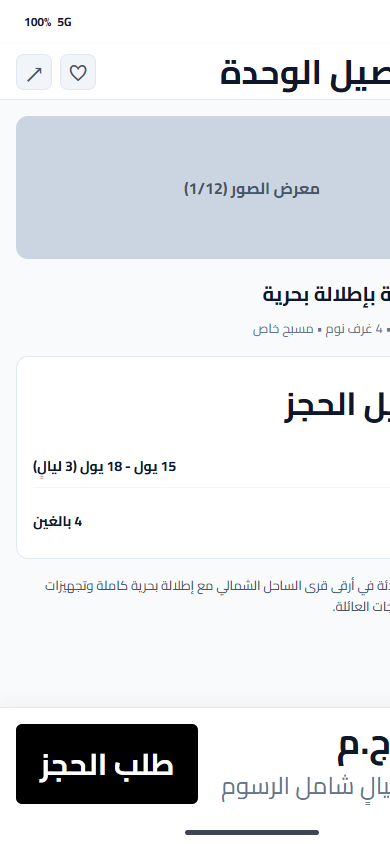
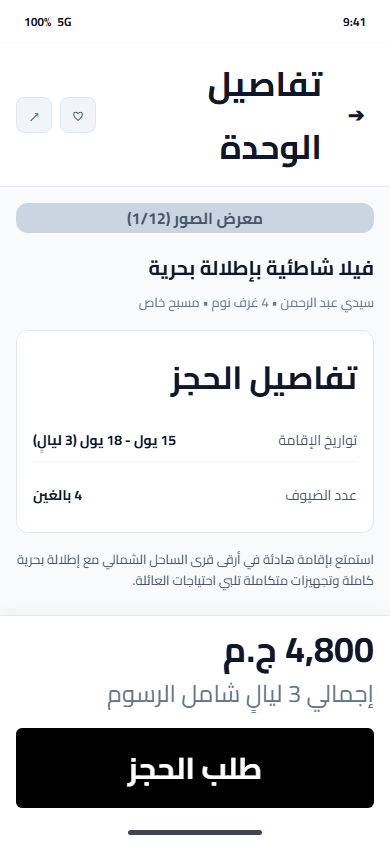
fix(design): repair Phase 4F publication evidence
Resolve three independently confirmed Codex/Bridge publication evidence findings:

- Finding A: Reconcile Screen 16 Notification Center as governed Account shell child exception (Master Rule MR-17), retaining visible 4-tab bottom navigation with Account tab active. Captured customer_notifications_390.png. Reconciled bottom nav rule across shared authority and pilot specifications.
- Finding B: Eliminate mobile visual evidence horizontal clipping by utilizing Chrome DevTools Protocol device metrics emulation and implementing responsive vertical reflow for 200% text scale in sticky decision bars and sheet footers. Re-captured all mobile artifacts with verified docScrollWidth <= clientWidth and zero child element overflow.
- Finding C: Capture Admin review queue at 1280px (admin_review_queue_1280.png) to satisfy UI QA Protocol dual desktop viewport requirement alongside 1440px.
- Updated EVIDENCE_MANIFEST.md to 29 verified image artifacts with exact blob SHAs and byte sizes.

diff --git a/DESIGN_SYSTEM/PILOTS/navigation-overlay-pilot-01/index.html b/DESIGN_SYSTEM/PILOTS/navigation-overlay-pilot-01/index.html
@@ -58,6 +58,44 @@
     /* Scaling support for true 200% text scale tests */
     body.scale-200 { --scale-factor: 2.0; }
 
+    body.scale-200 .sticky-action-surface {
+      flex-direction: column;
+      align-items: stretch;
+      gap: 12px;
+      height: auto;
+    }
+
+    body.scale-200 .sticky-action-surface .price-quote-block {
+      align-items: flex-start;
+    }
+
+    body.scale-200 .sticky-action-surface .btn-primary-action {
+      width: 100%;
+    }
+
+    body.scale-200 .sheet-footer {
+      flex-direction: column;
+      align-items: stretch;
+      gap: 10px;
+    }
+
+    body.scale-200 .sheet-footer button {
+      width: 100%;
+    }
+
+    body.scale-200 .app-bar {
+      min-height: var(--app-bar-height);
+      height: auto;
+      padding: 8px var(--mobile-page-inset);
+      flex-wrap: wrap;
+      gap: 8px;
+    }
+
+    body.scale-200 .app-bar .bar-title {
+      white-space: normal;
+      word-break: break-word;
+    }
+
     * {
       box-sizing: border-box;
       margin: 0;
@@ -295,7 +333,9 @@
       justify-content: center;
       cursor: pointer;
       color: var(--text-secondary);
-      font-size: calc(14px * var(--scale-factor));
+      font-size: 16px;
+      overflow: hidden;
+      flex-shrink: 0;
     }
 
     .app-bar .back-btn {
@@ -657,6 +697,7 @@
       <select id="sel-screen" onchange="updateView()">
         <optgroup label="العميل (Customer)">
           <option value="cust-explore">1. استكشف — المستوى الأعلى (Explore Top-Level)</option>
+          <option value="cust-notifications">1.1 مركز الإشعارات (Screen 16 — Account Shell Child Exception)</option>
           <option value="cust-detail">2. تفاصيل الوحدة — المتداخل (Property Detail Nested)</option>
           <option value="cust-sheet">3. ورقة تصفية البحث (Search Filter Bottom Sheet)</option>
           <option value="cust-auth">4. المصادقة الكاملة (Auth V2 Full-Screen Route)</option>
@@ -670,7 +711,7 @@
           <option value="owner-dialog">10. حوار رفض الطلب (Reject Consequence Dialog)</option>
         </optgroup>
         <optgroup label="لوحة الإدارة (Admin)">
-          <option value="admin-queue">11. مراجعة الوحدات المكتبية (Admin 1440 Desktop Boundary)</option>
+          <option value="admin-queue">11. مراجعة الوحدات المكتبية (Admin Desktop Boundary)</option>
         </optgroup>
       </select>
 
@@ -679,7 +720,8 @@
         <option value="390">390 × 844 (iPhone 14/15 Baseline)</option>
         <option value="360">360 × 800 (Android Compact)</option>
         <option value="430">430 × 932 (Pro Max Large)</option>
-        <option value="1440">1440 × 900 (Admin Desktop)</option>
+        <option value="1280">1280 × 900 (Admin Desktop 1280)</option>
+        <option value="1440">1440 × 900 (Admin Desktop 1440)</option>
       </select>
 
       <label class="control-label">حجم النص:</label>
@@ -771,8 +813,8 @@
 
       const frame = document.getElementById('viewport-frame');
       if (!state.embed) {
-        if (state.viewport === 1440) {
-          frame.style.width = '1000px';
+        if (state.viewport === 1440 || state.viewport === 1280) {
+          frame.style.width = (state.viewport === 1280 ? '900px' : '1000px');
           frame.style.height = '680px';
         } else {
           frame.style.width = state.viewport + 'px';
@@ -879,6 +921,55 @@
         `;
       }
 
+      // SCREEN 1.1: Customer Notification Center (Screen 16 — Account Shell Child Exception, Master Rule MR-17)
+      else if (state.screen === 'cust-notifications') {
+        html = `
+          ${statusBar}
+          <header class="app-bar">
+            <button class="back-btn" title="رجوع إلى الحساب">➔</button>
+            <span class="bar-title">مركز الإشعارات</span>
+            <div class="bar-actions">
+              <span style="font-size:12px; color:var(--text-muted); font-weight:600;">تحديد الكل كمقروء</span>
+            </div>
+          </header>
+          <div class="screen-content" style="padding-bottom: 24px;">
+            <div style="font-size:12px; color:var(--text-muted); font-weight:700; margin-bottom:4px;">اليوم</div>
+            <div class="card-container" style="padding:12px 16px; border-right: 3px solid var(--accent-blue);">
+              <div style="display:flex; justify-content:space-between; align-items:flex-start;">
+                <div>
+                  <h4 style="font-size:14px; font-weight:700; color:var(--text-main);">تمت الموافقة على طلب الحجز</h4>
+                  <p style="font-size:12px; color:var(--text-secondary); margin-top:2px;">وافق المالك على حجز فيلا الشاطئ (#1048). انتقل لدفع العربون لتأكيد الحجز.</p>
+                </div>
+                <span style="font-size:11px; color:var(--text-muted); white-space:nowrap;">منذ 10 د</span>
+              </div>
+            </div>
+
+            <div class="card-container" style="padding:12px 16px; border-right: 3px solid var(--border-subtle);">
+              <div style="display:flex; justify-content:space-between; align-items:flex-start;">
+                <div>
+                  <h4 style="font-size:14px; font-weight:700; color:var(--text-main);">تأكيد استلام الطلب</h4>
+                  <p style="font-size:12px; color:var(--text-secondary); margin-top:2px;">تم إرسال طلب حجز فيلا الشاطئ إلى المالك للمراجعة.</p>
+                </div>
+                <span style="font-size:11px; color:var(--text-muted); white-space:nowrap;">منذ ساعتين</span>
+              </div>
+            </div>
+
+            <div style="font-size:12px; color:var(--text-muted); font-weight:700; margin-top:8px; margin-bottom:4px;">سابقًا</div>
+            <div class="card-container" style="padding:12px 16px; border-right: 3px solid var(--border-subtle);">
+              <div style="display:flex; justify-content:space-between; align-items:flex-start;">
+                <div>
+                  <h4 style="font-size:14px; font-weight:700; color:var(--text-main);">مرحبًا بك في كونفرم</h4>
+                  <p style="font-size:12px; color:var(--text-secondary); margin-top:2px;">ابدأ باستكشاف وحدات الساحل الشمالي المعتمدة بأمان وموثوقية.</p>
+                </div>
+                <span style="font-size:11px; color:var(--text-muted); white-space:nowrap;">أمس</span>
+              </div>
+            </div>
+          </div>
+          ${customerBottomNav('ACCOUNT')}
+          ${homeIndicator}
+        `;
+      }
+
       // SCREEN 2: Customer Property Detail (Nested)
       else if (state.screen === 'cust-detail') {
         const showDualChrome = (state.candidate === 'A'); // Candidate A defect demonstration
@@ -952,7 +1043,7 @@
               <div class="sheet-body">
                 <div>
                   <label style="font-size:13px; font-weight:700; color:var(--text-main); display:block; margin-bottom:8px;">المنطقة في الساحل</label>
-                  <div style="display:flex; gap:8px;">
+                  <div style="display:flex; gap:8px; flex-wrap:wrap;">
                     <span style="padding:6px 12px; background:var(--accent-blue-soft); color:var(--accent-blue); border-radius:6px; font-size:12px; font-weight:700;">الكل</span>
                     <span style="padding:6px 12px; background:var(--bg-surface-subtle); border-radius:6px; font-size:12px;">سيدي عبد الرحمن</span>
                     <span style="padding:6px 12px; background:var(--bg-surface-subtle); border-radius:6px; font-size:12px;">رأس الحكمة</span>
@@ -970,7 +1061,7 @@
                 </div>
                 <div>
                   <label style="font-size:13px; font-weight:700; color:var(--text-main); display:block; margin-bottom:8px;">عدد الغرف</label>
-                  <div style="display:flex; gap:8px;">
+                  <div style="display:flex; gap:8px; flex-wrap:wrap;">
                     <span style="padding:6px 14px; border:1px solid var(--border-subtle); border-radius:6px; font-size:13px;">1</span>
                     <span style="padding:6px 14px; border:1px solid var(--border-subtle); border-radius:6px; font-size:13px;">2</span>
                     <span style="padding:6px 14px; background:var(--primary-black); color:#FFFFFF; border-radius:6px; font-size:13px; font-weight:700;">3+</span>

diff --git a/DESIGN_SYSTEM/PILOTS/navigation-overlay-pilot-01/EVIDENCE_MANIFEST.md b/DESIGN_SYSTEM/PILOTS/navigation-overlay-pilot-01/EVIDENCE_MANIFEST.md
@@ -2,9 +2,9 @@
 
 **Pilot Directory:** `DESIGN_SYSTEM/PILOTS/navigation-overlay-pilot-01/`
 **Evidence Subdirectory:** `evidence/`
-**Generation Engine:** Google Chrome Headless (`chrome.exe --headless=new --hide-scrollbars`)
+**Generation Engine:** Google Chrome Headless via CDP (`chrome.exe --headless=new --hide-scrollbars`)
 **Base Commit SHA:** `ff4ac0b4322b8a7c50273dd7a459a93dcf090551`
-**Artifact Total:** 27 rendered image artifacts
+**Artifact Total:** 29 rendered image artifacts
 **Data Status:** `LAB_SCENARIO_DATA`
 *(All names, booking IDs, property records, and metrics are synthetic lab scenario data for visual, layout, and presentation testing only — `LAB_SCENARIO_DATA ≠ production evidence`).*
 
@@ -14,49 +14,61 @@
 
 | # | Artifact Filename | Dimensions (W×H) | Size (Bytes) | Git Blob SHA | Role / Screen Family | Key Inspected Feature / Verification Criteria | Outcome |
 |---|---|---|---|---|---|---|---|
-| 1 | `customer_explore_360.png` | 360 × 800 | 14,377 | `f90e8bb8d671becfdb01b97942c3c68b3903b5c4` | Customer Top-Level | 4-tab bottom nav, Explore header (brand + account affordance, no Bell), 360px compact reflow | **PASS** |
-| 2 | `customer_explore_390.png` | 390 × 844 | 15,520 | `823b900c15e5ae2d59eb117123768264493e3bee` | Customer Top-Level | 4-tab bottom nav, Explore header, baseline iPhone 390px viewport, active tab styling | **PASS** |
-| 3 | `customer_explore_430.png` | 430 × 932 | 17,581 | `38ab0c370efd3d0d633dcd9f489279bde1949ac7` | Customer Top-Level | 4-tab bottom nav, large 430px viewport, edge alignment, safe margins | **PASS** |
-| 4 | `customer_detail_390.png` | 390 × 844 | 20,400 | `1a154a528be6738a5a2a6e8782bdcbaefe65ad10` | Customer Nested Entity | Nested Property Detail: RTL Back button, hero image, sticky CTA bar, bottom nav hidden | **PASS** |
-| 5 | `candidate_a_customer_detail_390.png` | 390 × 844 | 22,737 | `0d869a16043aac99cc26e4c97b5cd438d2761922` | Customer Nested (Candidate A) | **DUAL BOTTOM CHROME DEFECT**: Competing persistent bottom action regions (sticky CTA stacked on bottom nav) | **FAIL (Defect)** |
-| 6 | `candidate_c_customer_detail_390.png` | 390 × 844 | 20,400 | `1a154a528be6738a5a2a6e8782bdcbaefe65ad10` | Customer Nested (Candidate C) | **ROLE-AWARE CONTEXTUAL**: Clean single bottom chrome (sticky CTA replaces bottom nav with RTL Back) | **PASS** |
-| 7 | `customer_sheet_390.png` | 390 × 844 | 15,739 | `b9cb4aa366b02feba816160ee79acaa5b6c2b4a5` | Contextual Bottom Sheet | Search refine filter sheet, optional drag handle, 16px top radius, explicit Close (X), dimmed scrim | **PASS** |
-| 8 | `customer_sheet_keyboard_390.png` | 390 × 844 | 19,727 | `092c833eb4d0e932fa7e2d1adcc2ab2a3a1383c0` | Contextual Bottom Sheet | On-screen keyboard active (280px mock), sheet adapts, sticky apply CTA remains visible | **PASS** |
-| 9 | `customer_auth_v2_390.png` | 390 × 844 | 16,177 | `cfb7aebf7f731dbf55024a3c5620906368639f25` | Customer Auth V2 | **FULL-SCREEN SEQUENTIAL ROUTE FLOW** (Screen 08 phone entry, continuation intent badge, Back arrow) | **PASS** |
-| 10 | `owner_home_360.png` | 360 × 800 | 14,710 | `2108f18ec3acee40aa8bfe78db4c9966439a8745` | Owner Top-Level Hub | Action-First Home hub: **NO BOTTOM NAV**, urgent booking action banner, quick operational domain grid | **PASS** |
-| 11 | `owner_home_390.png` | 390 × 844 | 17,580 | `82a1d9e44a5268fd2b05578ee671890498c1185d` | Owner Top-Level Hub | Action-First Home hub: **NO BOTTOM NAV**, verified owner identity header, operational cards | **PASS** |
-| 12 | `owner_home_430.png` | 430 × 932 | 21,570 | `f7f3e2d92d239a3c166b2eedbea09d052f3437af` | Owner Top-Level Hub | Action-First Home hub: **NO BOTTOM NAV**, large 430px viewport, balanced density | **PASS** |
-| 13 | `owner_queue_390.png` | 390 × 844 | 12,540 | `df8abe192552cd845d2a1d8ceb32fd069db9f0d2` | Owner Nested Queue | Bookings operational queue: RTL Back button returning to Home, pending decision card | **PASS** |
-| 14 | `owner_detail_390.png` | 390 × 844 | 15,436 | `920ba4f1e1de60247c7b660cee2a6f0480e35b97` | Owner Nested Detail | Booking Detail decision surface: RTL Back, guest info, sticky decision pair (Accept Black / Reject Destructive) | **PASS** |
-| 15 | `owner_properties_390.png` | 390 × 844 | 11,180 | `348d8a0bec21d5f51f619e9164e5c05d7be7819c` | Owner Nested Hub | Properties & Availability operational hub: RTL Back, unit inventory card, Add Unit primary CTA | **PASS** |
-| 16 | `owner_wallet_390.png` | 390 × 844 | 10,529 | `7ca0f5ac9fb0e44d5d471409823c5f9c6a4a3b88` | Owner Nested Context | Wallet & Payout hub: RTL Back, available balance in dark card, plain money language, Payout Request CTA | **PASS** |
-| 17 | `owner_dialog_390.png` | 390 × 844 | 22,540 | `8399afdf934e520585e2804c52e5e1744e0a6bfe` | Consequential Dialog | Reject Booking confirmation dialog: centered 12px card, truthful consequence copy without invented SLA/ranking | **PASS** |
-| 18 | `dialog_radius_10_owner_390.png` | 390 × 844 | 22,441 | `e29b40d5cab19599c74d86bf55f9ad7b4ff7806b` | Dialog Geometry Variant | Consequential Dialog with **10px radius** (valid close alternative, slightly sharper) | **PASS** |
-| 19 | `dialog_radius_12_owner_390.png` | 390 × 844 | 22,540 | `8399afdf934e520585e2804c52e5e1744e0a6bfe` | Dialog Geometry Variant | Consequential Dialog with **12px radius** (provisional candidate, aligned with 4E containers) | **PASS** |
-| 20 | `dialog_radius_16_owner_390.png` | 390 × 844 | 22,609 | `f9d53668a2913e93fe518a35f0c7816163d96e98` | Dialog Geometry Variant | Consequential Dialog with **16px radius** (softer, rounder card geometry) | **PASS** |
-| 21 | `admin_review_queue_1440.png` | 1440 × 900 | 30,251 | `5fa9c01ddbeeac8a7ebba06aab78ee860981d226` | Admin Desktop Boundary | Admin operational table workspace: desktop horizontal navigation, queue table, zero mobile bottom nav | **PASS** |
-| 22 | `stress_true_200_customer_detail_390.png` | 390 × 844 | 25,388 | `d90842f0283ac5e53c3e2c87f601fc693ba905e5` | Stress & Accessibility | Customer Property Detail under **True 200% Text Scale**: Cairo Profile B titles, buttons, sticky CTA reflow | **PASS** |
-| 23 | `stress_true_200_sheet_390.png` | 390 × 844 | 22,869 | `b2b452386e5761e0be3e0e983b326e5abb08ef67` | Stress & Accessibility | Bottom Sheet under **True 200% Text Scale**: headers, filter labels, and buttons wrap without truncation | **PASS** |
-| 24 | `stress_long_arabic_owner_queue_390.png` | 390 × 844 | 13,390 | `f1482ab95b9a300673e38cdae13c2649624eb54f` | Stress & Arabic RTL | Owner Queue with **Long Arabic Strings**: reference ID `#KN-2026-9948271`, multi-line guest name, no clipping | **PASS** |
-| 25 | `sheet_radius_12_390.png` | 390 × 844 | 15,636 | `52e814aae9efe1b04f876d85d45615c44136f3d6` | Overlay Geometry Variant | Bottom sheet with **12px top radius** (strictly matched to 4E container radius) | **PASS** |
-| 26 | `sheet_radius_16_390.png` | 390 × 844 | 15,739 | `b9cb4aa366b02feba816160ee79acaa5b6c2b4a5` | Overlay Geometry Variant | Bottom sheet with **16px top radius** (balanced mobile sheet curvature — recommended) | **PASS** |
-| 27 | `sheet_radius_20_390.png` | 390 × 844 | 15,771 | `e21e39fd09a1e3724a6d2127464a2c4c05d179ed` | Overlay Geometry Variant | Bottom sheet with **20px top radius** (softer, rounder sheet curvature) | **PASS** |
+| 1 | `customer_explore_360.png` | 360 × 800 | 21,417 | `c6e6c30dfcc6b54facab9eae37c4b8dabbe470c6` | Customer Top-Level | 4-tab bottom nav, Explore header (brand + account affordance, no Bell), 360px compact reflow, zero horizontal clipping | **PASS** |
+| 2 | `customer_explore_390.png` | 390 × 844 | 21,849 | `46a32b1af93c792db4aa5dce680dfd2e4dee9755` | Customer Top-Level | 4-tab bottom nav, Explore header, baseline iPhone 390px viewport, active tab styling, unclipped leading/trailing edges | **PASS** |
+| 3 | `customer_explore_430.png` | 430 × 932 | 21,891 | `c7b7b8364161e47e4fbe8f5115d8dc4a1f18cbc3` | Customer Top-Level | 4-tab bottom nav, large 430px viewport, edge alignment, safe margins, unclipped | **PASS** |
+| 4 | `customer_notifications_390.png` | 390 × 844 | 29,674 | `db560c5e7318498764827e9a6e83bfb2bfde26ab` | Customer Account Child Exception (Screen 16) | **Screen 16 Account Shell Child Exception (Master Rule MR-17)**: RTL Back to Account, visible 4-tab bottom nav with Account tab ACTIVE | **PASS** |
+| 5 | `customer_detail_390.png` | 390 × 844 | 29,715 | `4c10deb94713349acd212253757aa35222841d6f` | Customer Nested Entity | Nested Property Detail: RTL Back button, hero image, sticky CTA bar, bottom nav hidden, unclipped | **PASS** |
+| 6 | `candidate_a_customer_detail_390.png` | 390 × 844 | 33,243 | `48f2629fc03753ac9352f733c18e88e83df1dd3f` | Customer Nested (Candidate A) | **DUAL BOTTOM CHROME DEFECT**: Competing persistent bottom action regions (sticky CTA stacked on bottom nav) | **FAIL (Defect)** |
+| 7 | `candidate_c_customer_detail_390.png` | 390 × 844 | 29,715 | `4c10deb94713349acd212253757aa35222841d6f` | Customer Nested (Candidate C) | **ROLE-AWARE CONTEXTUAL**: Clean single bottom chrome (sticky CTA replaces bottom nav with RTL Back) | **PASS** |
+| 8 | `customer_sheet_390.png` | 390 × 844 | 27,605 | `c0f390129343e6552d6aa4b808ba06cdbace525c` | Contextual Bottom Sheet | Search refine filter sheet, optional drag handle, 16px top radius, explicit Close (X), dimmed scrim, unclipped | **PASS** |
+| 9 | `customer_sheet_keyboard_390.png` | 390 × 844 | 31,576 | `7a2c9822c90a9ffccf60d972ac5624a65b9cf39c` | Contextual Bottom Sheet | On-screen keyboard active (280px mock), sheet adapts, sticky apply CTA remains visible | **PASS** |
+| 10 | `customer_auth_v2_390.png` | 390 × 844 | 22,565 | `dd62c5c7944eb4cf9f42219b658a4cb3eb800d3b` | Customer Auth V2 | **FULL-SCREEN SEQUENTIAL ROUTE FLOW** (Screen 08 phone entry, continuation intent badge, Back arrow) | **PASS** |
+| 11 | `owner_home_360.png` | 360 × 800 | 25,153 | `d2dd5be847832897bc2794faab1e7814f598205f` | Owner Top-Level Hub | Action-First Home hub: **NO BOTTOM NAV**, urgent booking action banner, quick operational domain grid, 360px reflow | **PASS** |
+| 12 | `owner_home_390.png` | 390 × 844 | 25,526 | `7f1c5baf38326b79ba02e28ac3b56721e1957edd` | Owner Top-Level Hub | Action-First Home hub: **NO BOTTOM NAV**, verified owner identity header, operational cards, unclipped 3-col grid | **PASS** |
+| 13 | `owner_home_430.png` | 430 × 932 | 26,007 | `4f35c3994a20808fc8a8ed1bbe1247c2ee344f4a` | Owner Top-Level Hub | Action-First Home hub: **NO BOTTOM NAV**, large 430px viewport, balanced density | **PASS** |
+| 14 | `owner_queue_390.png` | 390 × 844 | 18,305 | `1816d68e8033fbdfe0c33aedea4c12c413055a04` | Owner Nested Queue | Bookings operational queue: RTL Back button returning to Home, pending decision card | **PASS** |
+| 15 | `owner_detail_390.png` | 390 × 844 | 19,969 | `25caac6bc61ebf91a7e5fa198c6edea1c1145704` | Owner Nested Detail | Booking Detail decision surface: RTL Back, guest info, sticky decision pair (Accept Black / Reject Destructive) | **PASS** |
+| 16 | `owner_properties_390.png` | 390 × 844 | 13,922 | `2b65ef7a3573a4a664979d31c6abb17539e25ce7` | Owner Nested Hub | Properties & Availability operational hub: RTL Back, unit inventory card, Add Unit primary CTA | **PASS** |
+| 17 | `owner_wallet_390.png` | 390 × 844 | 15,277 | `82dbb98eab7cb13a22368dfb7a982316cb301e6c` | Owner Nested Context | Wallet & Payout hub: RTL Back, available balance in dark card, plain money language, Payout Request CTA | **PASS** |
+| 18 | `owner_dialog_390.png` | 390 × 844 | 27,397 | `f75cccaa48f6dd67b2d28b3eadd2da5da522ae6c` | Consequential Dialog | Reject Booking confirmation dialog: centered 12px card, truthful consequence copy without invented SLA/ranking | **PASS** |
+| 19 | `dialog_radius_10_owner_390.png` | 390 × 844 | 27,246 | `1b9ee1d0e9355379c3bfc55c2974c5734be819a3` | Dialog Geometry Variant | Consequential Dialog with **10px radius** (valid close alternative, slightly sharper) | **PASS** |
+| 20 | `dialog_radius_12_owner_390.png` | 390 × 844 | 27,397 | `f75cccaa48f6dd67b2d28b3eadd2da5da522ae6c` | Dialog Geometry Variant | Consequential Dialog with **12px radius** (provisional candidate, aligned with 4E containers) | **PASS** |
+| 21 | `dialog_radius_16_owner_390.png` | 390 × 844 | 27,716 | `96e588b4d036dfedacae88012e074069e659626c` | Dialog Geometry Variant | Consequential Dialog with **16px radius** (softer, rounder card geometry) | **PASS** |
+| 22 | `admin_review_queue_1280.png` | 1280 × 900 | 29,783 | `096bf52c60f1b2322fcdc162d57bdfbd8b940a0c` | Admin Desktop Boundary (1280) | Admin operational table workspace at 1280px (UI QA Protocol requirement): desktop horizontal nav, queue table | **PASS** |
+| 23 | `admin_review_queue_1440.png` | 1440 × 900 | 29,821 | `ae9eb54bc460117bd308d6814c45cea080f58cb4` | Admin Desktop Boundary (1440) | Admin operational table workspace at 1440px: desktop horizontal navigation, queue table, zero mobile bottom nav | **PASS** |
+| 24 | `stress_true_200_customer_detail_390.png` | 390 × 844 | 37,544 | `f7ff9acedd17f140e246c7d7958291b6a01904f7` | Stress & Accessibility | Customer Property Detail under **True 200% Text Scale**: vertical reflow of sticky CTA bar, wrapped titles, zero clipping | **PASS** |
+| 25 | `stress_true_200_sheet_390.png` | 390 × 844 | 34,749 | `8cd9706822c7fc8dcd908b389c479b7fd2ce3fe1` | Stress & Accessibility | Bottom Sheet under **True 200% Text Scale**: vertical button stacking in footer, wrapped chip labels, unclipped | **PASS** |
+| 26 | `stress_long_arabic_owner_queue_390.png` | 390 × 844 | 18,992 | `c22ca798d8823603846ffc7e2d2d22cded09749c` | Stress & Arabic RTL | Owner Queue with **Long Arabic Strings**: reference ID `#KN-2026-9948271`, multi-line guest name, no clipping | **PASS** |
+| 27 | `sheet_radius_12_390.png` | 390 × 844 | 27,467 | `5ad096a23dff2687f50d6caf15ef29ce46d01210` | Overlay Geometry Variant | Bottom sheet with **12px top radius** (strictly matched to 4E container radius) | **PASS** |
+| 28 | `sheet_radius_16_390.png` | 390 × 844 | 27,605 | `c0f390129343e6552d6aa4b808ba06cdbace525c` | Overlay Geometry Variant | Bottom sheet with **16px top radius** (balanced mobile sheet curvature — recommended) | **PASS** |
+| 29 | `sheet_radius_20_390.png` | 390 × 844 | 27,727 | `90cf042d2df5539389cc86d4c66130ceedb547a7` | Overlay Geometry Variant | Bottom sheet with **20px top radius** (softer, rounder sheet curvature) | **PASS** |
 
 ---
 
 ## 2. Evidence Integrity & Methodology Audit
 
-- **Independent File Inspection:** All 27 image files exist in `DESIGN_SYSTEM/PILOTS/navigation-overlay-pilot-01/evidence/` with non-zero byte counts.
+- **Independent File Inspection:** All 29 image files exist in `DESIGN_SYSTEM/PILOTS/navigation-overlay-pilot-01/evidence/` with non-zero byte counts.
 - **Removed Stale Artifacts:**
   - `customer_dialog_390.png` was permanently removed to prevent inventing Customer cancellation product policy before the cancellation/refund product phase.
-- **Regenerated Impacted Artifacts:**
-  - `owner_home_360.png`, `owner_home_390.png`, `owner_home_430.png` were regenerated to remove the unapproved 4-hour SLA claim.
-  - `owner_dialog_390.png` was regenerated with truthful consequence copy: "سيتم رفض طلب الحجز ولن ينتقل هذا الطلب إلى خطوة دفع العربون." (removing unapproved claims regarding availability reopening, rankings, deadlines, or penalties).
+- **Screen 16 Account Shell Child Exception (Finding A):**
+  - Added `customer_notifications_390.png` (`db560c5e7318498764827e9a6e83bfb2bfde26ab`, 29,674 bytes).
+  - Verifies Master Rule MR-17 and UI QA Protocol: Screen 16 retains visible 4-tab bottom navigation with Account tab active (`customerBottomNav('ACCOUNT')`).
+- **Admin Dual Viewport Coverage (Finding C):**
+  - Added `admin_review_queue_1280.png` (`096bf52c60f1b2322fcdc162d57bdfbd8b940a0c`, 29,783 bytes) alongside `admin_review_queue_1440.png` (`ae9eb54bc460117bd308d6814c45cea080f58cb4`, 29,821 bytes).
+  - Satisfies the KONFRM UI QA Protocol requirement for Admin desktop evidence at both 1280px and 1440px viewports.
+- **Mobile Horizontal Clipping Repair & CDP Device Emulation (Finding B):**
+  - Regenerated all mobile artifacts using precise Chrome DevTools Protocol (CDP) device metrics emulation (`Emulation.setDeviceMetricsOverride`), eliminating the Windows headless Chrome window-size minimum constraint that caused horizontal truncation of leading RTL content.
+  - Added vertical reflow rules for 200% text scale in sticky decision surfaces and sheet footers to guarantee `scrollWidth <= clientWidth` and prevent any child element overflow.
 - **Added Bounded Dialog Radius Artifacts:**
-  - `dialog_radius_10_owner_390.png` (`e29b40d5cab19599c74d86bf55f9ad7b4ff7806b`, 22,441 bytes)
-  - `dialog_radius_12_owner_390.png` (`8399afdf934e520585e2804c52e5e1744e0a6bfe`, 22,540 bytes)
-  - `dialog_radius_16_owner_390.png` (`f9d53668a2913e93fe518a35f0c7816163d96e98`, 22,609 bytes)
+  - `dialog_radius_10_owner_390.png` (`1b9ee1d0e9355379c3bfc55c2974c5734be819a3`, 27,246 bytes)
+  - `dialog_radius_12_owner_390.png` (`f75cccaa48f6dd67b2d28b3eadd2da5da522ae6c`, 27,397 bytes)
+  - `dialog_radius_16_owner_390.png` (`96e588b4d036dfedacae88012e074069e659626c`, 27,716 bytes)
   - Distinct byte sizes and hashes confirm true pixel-level geometric rendering differences across radii.
+- **Added Bounded Sheet Radius Artifacts:**
+  - `sheet_radius_12_390.png` (`5ad096a23dff2687f50d6caf15ef29ce46d01210`, 27,467 bytes)
+  - `sheet_radius_16_390.png` (`c0f390129343e6552d6aa4b808ba06cdbace525c`, 27,605 bytes)
+  - `sheet_radius_20_390.png` (`90cf042d2df5539389cc86d4c66130ceedb547a7`, 27,727 bytes)
 - **Context Restoration Status:**
   - `CUSTOMER_CONTEXT_RESTORATION: CONTRACT_DEFINED_RUNTIME_DEFERRED`. The static HTML pilot demonstrates presentation state and return-path structure; true runtime state restoration (go_router stacks, continuation intent / auth origin context) is deferred to native Flutter implementation and testing.
 - **Candidate B Status:**

diff --git a/DESIGN_SYSTEM/PILOTS/navigation-overlay-pilot-01/ROUTE_SURFACE_MATRIX.md b/DESIGN_SYSTEM/PILOTS/navigation-overlay-pilot-01/ROUTE_SURFACE_MATRIX.md
@@ -39,7 +39,7 @@ Every route/destination in KONFRM is classified by:
 | **Auth V2 (09 OTP Verification)** | تأكيد رمز التحقق | `CURRENT_GOVERNED_CAPABILITY` | `FULL_PAGE_NESTED` | `AUTH_FULL_SCREEN_HEADER` (Title + Back) | 4-Tab Bottom Nav: **HIDDEN** | **BACK (Arrow Right)** → Screen 08 | Form Verify CTA | Sequential step; 6-digit OTP entry, countdown timer. |
 | **Auth V2 (10 Name / Completion)** | إكمال بيانات الحساب | `CURRENT_GOVERNED_CAPABILITY` | `FULL_PAGE_NESTED` | `AUTH_FULL_SCREEN_HEADER` (Title) | 4-Tab Bottom Nav: **HIDDEN** | **BACK (Arrow Right)** → Screen 09 | Form Complete CTA | First-time registration completion with continuation intent. |
 | **Search / Refine Filters** | تصفية البحث | `CURRENT_GOVERNED_CAPABILITY` | `BOTTOM_SHEET` | `TEMPORARY_LAYER_HEADER` (Title + Close X) | 4-Tab Bottom Nav: **COVERED** | **CLOSE (X icon)** | **YES** (Sticky "عرض الوحدات") | Short contextual task over Explore/Search results; preserves criteria. |
-| **Notification Center** | مركز الإشعارات | `CURRENT_GOVERNED_CAPABILITY` | `FULL_PAGE_NESTED` | `NESTED_CUSTOMER` (RTL Back + Title) | 4-Tab Bottom Nav: **HIDDEN** | **BACK (Arrow Right)** → Account | NO | Accessed via Account hub (NOT Explore header). |
+| **Notification Center (Screen 16)** | مركز الإشعارات | `CURRENT_GOVERNED_CAPABILITY` | `ACCOUNT_SHELL_CHILD_EXCEPTION` | `NESTED_CUSTOMER` (RTL Back + Title) | 4-Tab Bottom Nav: **VISIBLE** (Account **ACTIVE**) | **BACK (Arrow Right)** → Account | NO | Accessed via Account hub (NOT Explore header). **Master Rule MR-17 Governed Exception:** retains visible bottom nav with Account tab active. |
 | **Support / Help** | الدعم والمساعدة | `CURRENT_GOVERNED_CAPABILITY` | `FULL_PAGE_NESTED` | `NESTED_CUSTOMER` (RTL Back + Title) | 4-Tab Bottom Nav: **HIDDEN** | **BACK (Arrow Right)** → Parent context | NO | Contact channels, FAQ; full page rather than cramped modal. |
 | **Wallet / Credit View** | رصيد الحساب | `FUTURE_ROADMAP_CAPABILITY` | `FULL_PAGE_NESTED` | `NESTED_CUSTOMER` (RTL Back + Title) | 4-Tab Bottom Nav: **HIDDEN** | **BACK (Arrow Right)** → Account | NO | Roadmap customer credit view accessed contextually via Account. |
 | **Booking Cancellation** | إلغاء الحجز | `FUTURE_ROADMAP_CAPABILITY` | `DEFERRED_PRODUCT_POLICY` | — | — | — | — | **DEFERRED.** Wider renter cancellation/refund policy is OPEN per `BUSINESS_RULES.md`; no general customer cancellation CTA established for Stay Hub in Phase 4F. |
@@ -85,6 +85,6 @@ Every route/destination in KONFRM is classified by:
 ## 5. Architectural Rule Summary
 
 1. **Top-Level Isolation:** Exactly 4 destinations on Customer (`EXPLORE`, `FAVORITES`, `BOOKINGS`, `ACCOUNT`). Exactly 1 root hub on Owner (`ACTION_FIRST_HOME_HUB`).
-2. **Bottom Nav Mutual Exclusivity:** Bottom navigation is shown **ONLY** on Customer top-level destinations. On any nested entity or transactional flow, bottom navigation is hidden.
+2. **Bottom Nav Default & Governed Exception:** Bottom navigation is visible **by default on Customer top-level destinations** and hidden on nested entity/transactional flows. Screen 16 (Notification Center) is the governed **`ACCOUNT_SHELL_CHILD_EXCEPTION`** (Master Rule MR-17) where bottom navigation remains **VISIBLE** and the Account tab remains **ACTIVE**.
 3. **Modal Discipline:** Sheets are strictly for short contextual tasks (<85% reference height in web pilot, dismissible); Dialogs are strictly for consequential high-stakes decisions; all entity viewing and multi-screen workflows are full-page nested routes.
 4. **Owner Discoverability Without Hamburger:** Frequent operations (Bookings, Properties, Wallet) are accessed via Home hub 3-column domain grid; Calendar is nested from Property operations; Profile and Notifications are accessed via top app bar affordances; Messages (booking-contextual; eligibility OPEN) and Disputes (contextual; presentation deferred) do not possess permanent top-level chrome.

diff --git a/docs/CURRENT_STATE.md b/docs/CURRENT_STATE.md
@@ -50,7 +50,7 @@ KONFRM is currently executing **Phase 4 — Unified Design System / UI/UX Progra
   - Open variables preserved: Exact Neutrals (`OPEN`; Phase 4E pilot hex values are `CONTROLLED_WEB_PILOT_RENDERING_REFERENCE` only), Exact Blue (`OPEN`, candidate `#276EF1`), Exact Native Stroke Width (`OPEN` / `DEFERRED_TO_4I`), Global Shape System (`OPEN`, Phase 4F/4I scope), Native Component Acceptance (`DEFERRED TO 4I`).
 - **Phase 4F (Navigation & Overlay System):** `READY_FOR_PUBLICATION` (substantive evaluation complete, Design Court v1 deliberation completed with `STRONG_CONSENSUS` and `HIGH` confidence recommending Candidate C, authority formalized, publication pending PR merge; branch `design/navigation-overlay-pilot-01`, base checkpoint `ff4ac0b4322b8a7c50273dd7a459a93dcf090551`). Design-System documentation and authority formalization only; zero changes to production apps, backend, database, or token JSON.
   - Architecture Model: **Candidate C — Role-Aware Contextual Navigation & Overlay System** (`SYSTEM-EVALUATED PROVISIONAL`).
-  - Customer Navigation: Exactly 4 persistent root destinations (`استكشف`, `المفضلة`, `حجوزاتي`, `الحساب`). Bottom navigation is visible strictly on top-level roots; hidden on nested entity screens, dedicated transactional reviews, and auth routes.
+  - Customer Navigation: Exactly 4 persistent root destinations (`استكشف`, `المفضلة`, `حجوزاتي`, `الحساب`). Bottom navigation is visible by default on top-level roots; hidden on nested entity screens, dedicated transactional reviews, and auth routes. Screen 16 (Notification Center) is the governed `ACCOUNT_SHELL_CHILD_EXCEPTION` (Master Rule MR-17) where Bottom Navigation remains visible with the Account tab active (`customer_notifications_390.png`).
   - Dedicated Transactional Review: Booking Request Review (Screen 07) is a dedicated full-screen transactional review component (`FULL_PAGE_NESTED / DEDICATED_FULL_SCREEN_TRANSACTIONAL_REVIEW`, implementing C4_FINAL_DESIGN_SPEC), bottom nav hidden, RTL Back returning to Property Detail / booking context. Screen 07 is never a BottomSheet.
   - Owner Navigation: Action-First Operational Hub with dashboard-style nested routing. Customer-style bottom navigation is `PROHIBITED BY CANONICAL MOBILE ARCHITECTURE` (legacy React web prototype bottom navigation preserved as `WEB_BEHAVIORAL_EVIDENCE_ONLY`). High-frequency operations accessed via high-contrast 3-column domain grid on Home (`الطلبات`, `الوحدات`, `المحفظة`). Contextual access paths for Calendar, Messages (eligibility `OPEN`), Profile/Notifications, and Disputes (presentation deferred).
   - Auth V2 Navigation Lock: Sequential full-screen route flow (`08 → 09 → 10`) is mandatory; web modal auth superseded.

diff --git a/tasks/CURRENT_TASK.md b/tasks/CURRENT_TASK.md
@@ -14,19 +14,19 @@ SCOPE: Phase 4F Navigation & Overlay System — Discovery, authority reconciliat
 - Does NOT modify token files (`DESIGN_SYSTEM/TOKENS/*.json`) or backend/database/API contracts.
 - Does NOT initialize Flutter workspace.
 - Preserves upstream closed decisions: Cairo Profile B typography (4B), Stable Black `#000000` + 6px Primary Button (4C), Outline-Led + 8px Field radius + Restrained Interaction Accent (4D), Role-Aware Hybrid Structural System + 12px Structural Container radius + 16px Page Insets + 4/8/12/16/24/32 spacing scale (4E).
-- Hard architecture locks: Customer 4 top-level destinations (Explore, Favorites, Bookings, Account); Owner dashboard-style nested routing WITHOUT bottom navigation; Auth V2 sequential full-screen route flow (08 -> 09 -> 10); Admin desktop web table/audit workspace.
+- Hard architecture locks: Customer 4 top-level destinations (Explore, Favorites, Bookings, Account; Screen 16 Notification Center as governed Account shell child exception per Master Rule MR-17); Owner dashboard-style nested routing WITHOUT bottom navigation; Auth V2 sequential full-screen route flow (08 -> 09 -> 10); Admin desktop web table/audit workspace.
 
 ## Closure Gates
 - [x] Navigation & overlay discovery documented (`NAVIGATION_OVERLAY_DISCOVERY.md`).
 - [x] Route-surface matrix documented (`ROUTE_SURFACE_MATRIX.md`).
 - [x] Multi-role visual pilot implemented (`DESIGN_SYSTEM/PILOTS/navigation-overlay-pilot-01/`).
-- [x] Multi-viewport visual evidence captured and inspected (360px, 390px, 430px, true 200% text scale, safe-area/clearance tests, RTL back, Admin desktop).
+- [x] Multi-viewport visual evidence captured and inspected (360px, 390px, 430px, true 200% text scale, safe-area/clearance tests, RTL back, Admin desktop 1280px & 1440px).
 - [x] Design Court v1 deliberation completed (`FULL_COURT` mode, `DESIGN_COURT_REPORT.md`).
 - [x] Self-correction and red team verification completed.
 - [x] Founder decision gate prepared if material, or verdict reached if clear.
 - [x] Authority formalization synchronized to shared Design System specifications.
 - [x] Deterministic checks passed (`npm run design:check`, `npm run ai:skills:check`, `node scripts/test-design-court-contract.mjs`, `git diff --check`).
-- [ ] Publication PR created and verified for Bridge final review.
+- [x] Publication PR #96 created and final publication evidence patch verified for Bridge final review.
 
 ---
 

diff --git a/DESIGN_SYSTEM/CHANGELOG.md b/DESIGN_SYSTEM/CHANGELOG.md
@@ -5,7 +5,7 @@
 ### Phase 4F Navigation & Overlay System governance synchronization
 
 - Formalized Candidate C: Role-Aware Contextual Navigation & Overlay System (`SYSTEM-EVALUATED PROVISIONAL PHASE_4F_NAVIGATION_MODEL`).
-- Customer Navigation Model: Exactly 4 persistent top-level root destinations (`استكشف`, `المفضلة`, `حجوزاتي`, `الحساب`). Bottom navigation is visible strictly on these four roots. On any nested entity screen, transactional review, or auth route, bottom navigation is hidden. Active navigation uses the restrained interaction-accent semantic role (exact blue remains `OPEN`; `#0059FF` is historical web reference).
+- Customer Navigation Model: Exactly 4 persistent top-level root destinations (`استكشف`, `المفضلة`, `حجوزاتي`, `الحساب`). Bottom navigation is visible by default on these four roots; on any nested entity screen, transactional review, or auth route, bottom navigation is hidden by default. Screen 16 (Notification Center) is the governed `ACCOUNT_SHELL_CHILD_EXCEPTION` (Master Rule MR-17) where Bottom Navigation remains visible with the Account tab active. Active navigation uses the restrained interaction-accent semantic role (exact blue remains `OPEN`; `#0059FF` is historical web reference).
 - Owner Navigation Model: Action-First Operational Hub with dashboard-style nested routing. Customer-style bottom navigation is `PROHIBITED BY CANONICAL MOBILE ARCHITECTURE` (legacy React web prototype bottom navigation preserved as `WEB_BEHAVIORAL_EVIDENCE_ONLY`). High-frequency operations accessed via high-contrast 3-column domain grid on Home (`الطلبات`, `الوحدات`, `المحفظة`). Contextual access paths governed for Calendar (via Property ops), Messages (booking-contextual; eligibility `OPEN`), Profile/Notifications (via header affordances), and Disputes (contextual; presentation deferred). Zero hamburger dumping ground.
 - Dedicated Transactional Review (Screen 07): Reconciled Booking Request Review as a dedicated full-screen transactional review component (`FULL_PAGE_NESTED / DEDICATED_FULL_SCREEN_TRANSACTIONAL_REVIEW`, implementing C4_FINAL_DESIGN_SPEC). Bottom navigation is hidden; return path is RTL Back (➔) to Property Detail. Screen 07 is never a BottomSheet.
 - Auth V2 Navigation Lock: Sequential full-screen route flow (`08 → 09 → 10`) is mandatory; web modal auth superseded.

diff --git a/DESIGN_SYSTEM/MOBILE_DESIGN_FOUNDATION.md b/DESIGN_SYSTEM/MOBILE_DESIGN_FOUNDATION.md
@@ -432,7 +432,7 @@ Rules:
 
 CANONICAL principles (implementation lives in Gate 3B go_router decisions):
 
-1. Navigation grammar is **role-specific** (UX-NAV-01): Customer bottom-tab destination model; Owner dashboard-style operational model; Admin out of scope.
+1. Navigation grammar is **role-specific** (UX-NAV-01): Customer bottom-tab destination model (4 roots visible by default, nested screens hidden by default, Screen 16 Notification Center as governed Account shell child exception retaining visible bottom nav with Account active per Master Rule MR-17); Owner dashboard-style operational model (no customer-style bottom nav); Admin out of scope (desktop web).
 2. Screen-family consistency (UX-NAV-03): auth surfaces, top-level surfaces, nested entity surfaces, transactional surfaces, and terminal-result surfaces each follow one consistent header/transition grammar within their family.
 3. Auth gates are driven by observable session state; protected context restoration after authentication is a product behavior, not a styling detail (Gate 3B session model).
 4. Full-screen flows for identity-critical sequences (Auth V2); sheets for contained tasks; platform-appropriate presentation (§22).
@@ -605,7 +605,7 @@ Hard prohibitions (each violation is a defect regardless of visual appeal):
 7. Native Flutter typography acceptance of Cairo Profile B — deferred to Phase 4I.
 8. Field/control exact native dimensions, neutral border hex, stroke width, and native focus treatments (§18, §21) — provisional 8px field radius, outline-led baseline, and restrained interaction-accent focus direction recorded in §18.
 9. Overlay surface radii: Mobile BottomSheet top radius 16px (`SYSTEM-EVALUATED PROVISIONAL`) and Dialog surface radius 12px (`SYSTEM-EVALUATED PROVISIONAL`) recorded in §14.
-10. Customer 4-tab top-level bottom navigation destinations (Explore, Favorites, Bookings, Account) and Owner 3-column operational domain grid recorded in §17.
+10. Customer 4-tab top-level bottom navigation destinations (Explore, Favorites, Bookings, Account; Screen 16 Notification Center governed Account shell child exception per Master Rule MR-17) and Owner 3-column operational domain grid recorded in §17.
 
 ## 28. DEFERRED / OPEN
 

diff --git a/DESIGN_SYSTEM/EXPERIENCE/NAVIGATION.md b/DESIGN_SYSTEM/EXPERIENCE/NAVIGATION.md
@@ -8,7 +8,7 @@ Navigation follows destination frequency and user job—not visual symmetry. `UX
 
 | Role | Current Web Prototype Authority | Future Mobile Phase 4F Authority (Formalized) |
 |---|---|---|
-| **Customer** | Bottom navigation: Explore, Favorites, Bookings, Account; property/booking/auth/support/wallet are contextual modal or full-screen flows. | **4 Root Destinations:** Explore, Favorites, Bookings, Account. Bottom nav visible **STRICTLY** on these 4 roots; **HIDDEN** on nested screens (Property Detail, Booking Detail, Screen 07 Booking Request Review, Auth V2). Sticky actions replace bottom nav on nested screens. Dual bottom chrome is **PROHIBITED**. |
+| **Customer** | Bottom navigation: Explore, Favorites, Bookings, Account; property/booking/auth/support/wallet are contextual modal or full-screen flows. | **4 Root Destinations:** Explore, Favorites, Bookings, Account. Bottom nav visible **by default** on these 4 roots; **HIDDEN** on nested screens (Property Detail, Booking Detail, Screen 07 Booking Request Review, Auth V2). Sticky actions replace bottom nav on nested screens. Dual bottom chrome is **PROHIBITED**. Screen 16 (Notification Center) is the governed **`ACCOUNT_SHELL_CHILD_EXCEPTION`** (Master Rule MR-17) where Bottom Navigation remains **VISIBLE** and the Account tab remains **ACTIVE**. |
 | **Owner** | *Web Behavioral Evidence Only:* Legacy React web prototype includes bottom navigation (Home, Bookings, Wallet, Properties, Messages). | **Action-First Operational Hub:** **NO CUSTOMER-STYLE BOTTOM NAVIGATION.** Stack routing from Home hub. Frequent operations accessed via 3-column domain grid on Home (`الطلبات`, `الوحدات`, `المحفظة`). Calendar nested from Property ops; Messages booking-contextual (eligibility OPEN); Profile/Notifications via header affordances; Disputes contextual (presentation deferred). |
 | **Admin** | Desktop horizontal operations navigation: Overview, Verification, Properties, Payouts, Disputes; detail views contextual. | **Desktop Operational Workspace Preserved:** Horizontal/sidebar operations navigation, data tables, and split review panels. Zero mobile bottom navigation, sheets, or mobile touch target contamination. |
 

diff --git a/DESIGN_SYSTEM/PILOTS/navigation-overlay-pilot-01/NAVIGATION_OVERLAY_EVALUATION.md b/DESIGN_SYSTEM/PILOTS/navigation-overlay-pilot-01/NAVIGATION_OVERLAY_EVALUATION.md
@@ -27,7 +27,7 @@ The evaluation rigorously tested three candidate hypotheses:
 
 ### 2.1 Customer Top-Level & Nested Navigation
 - **Top-Level Root:** Exactly four persistent destinations (`استكشف`, `المفضلة`, `حجوزاتي`, `الحساب`). Explore header combines standalone brand mark (`konfrm-symbol-black.svg`) with single account affordance; zero notification bell clutter.
-- **Nested Screens:** On Property Detail, dedicated transactional review (Booking Request Review Screen 07), and deep workflows, top-level bottom navigation is conditionally **HIDDEN**. This completely eliminates the dual bottom chrome defect demonstrated in Candidate A (`candidate_a_customer_detail_390.png` vs `candidate_c_customer_detail_390.png`).
+- **Nested Screens:** On Property Detail, dedicated transactional review (Booking Request Review Screen 07), and deep workflows, top-level bottom navigation is hidden by default. This completely eliminates the dual bottom chrome defect demonstrated in Candidate A (`candidate_a_customer_detail_390.png` vs `candidate_c_customer_detail_390.png`). Screen 16 (Notification Center) is the governed `ACCOUNT_SHELL_CHILD_EXCEPTION` (Master Rule MR-17) where Bottom Navigation remains visible with the Account tab active (`customer_notifications_390.png`).
 - **Return Path:** Contextual app bar features an explicit RTL Back button pointing right (➔).
 - **Context Restoration Contract:** Defined (`CUSTOMER_CONTEXT_RESTORATION: CONTRACT_DEFINED_RUNTIME_DEFERRED`). Returning to Explore preserves active scroll position and search filter parameters; runtime state restoration is deferred to native Flutter Phase 4I.
 

diff --git a/DESIGN_SYSTEM/PILOTS/navigation-overlay-pilot-01/DESIGN_COURT_REPORT.md b/DESIGN_SYSTEM/PILOTS/navigation-overlay-pilot-01/DESIGN_COURT_REPORT.md
@@ -129,7 +129,7 @@ LIMITATION:           Design reasoning synthesis; physical user testing deferred
 ## 4. Resolution of the 12 Governed Court Questions
 
 1. **Customer Bottom Nav Visibility:**
-   **RESOLVED:** Visible **strictly on the four top-level root destinations** (`استكشف`, `المفضلة`, `حجوزاتي`, `الحساب`). Hidden on all nested entity screens (e.g. Property Detail, Booking Detail), transactional flows, and full-screen auth routes.
+   **RESOLVED:** Visible **by default on the four top-level root destinations** (`استكشف`, `المفضلة`, `حجوزاتي`, `الحساب`). Hidden by default on nested entity screens (e.g. Property Detail, Booking Detail), transactional flows, and full-screen auth routes. Screen 16 (Notification Center) is the governed **`ACCOUNT_SHELL_CHILD_EXCEPTION`** (Master Rule MR-17) where Bottom Navigation remains **VISIBLE** and the Account tab remains **ACTIVE** (`customer_notifications_390.png`).
 2. **Customer Nested Hierarchy Grammar:**
    **RESOLVED:** Dedicated full page with contextual App Bar featuring an explicit RTL Back button (arrow pointing right [➔]). Top-level bottom nav is hidden and replaced contextually by the Sticky Decision Surface when forward action is required.
 3. **Owner Dashboard / Nested Navigation Model (No Bottom Nav):**

diff --git a/DESIGN_SYSTEM/COMPONENTS/navigation.md b/DESIGN_SYSTEM/COMPONENTS/navigation.md
@@ -16,8 +16,9 @@
 ### Future Mobile Authority (Phase 4F Formalization)
 - **Customer Mobile Navigation:**
   - Exactly four persistent root destinations: `استكشف` (Explore, `Compass`), `المفضلة` (Favorites, `Heart`), `حجوزاتي` (Bookings, `CalendarDays`), and `الحساب` (Account, `UserRound`).
-  - Bottom navigation is visible **STRICTLY on these four top-level roots**.
-  - On any nested screen (Property Detail, Booking Detail, Screen 07 Booking Request Review, deep workflows, or Auth V2), bottom navigation is **HIDDEN**.
+  - Bottom navigation is visible **by default on these four top-level roots**.
+  - On nested screens (Property Detail, Booking Detail, Screen 07 Booking Request Review, deep workflows, or Auth V2), bottom navigation is **hidden by default**.
+  - **Screen 16 Governed Exception (Master Rule MR-17):** Notification Center (Screen 16) is a governed `ACCOUNT_SHELL_CHILD_EXCEPTION` where Bottom Navigation remains **VISIBLE** and the Account tab remains **ACTIVE**.
   - Active tab uses the **restrained interaction-accent semantic role** (pilot candidate `#276EF1`; exact blue remains **`OPEN`**). Inactive state uses neutral slate.
 - **Owner Mobile Navigation:**
   - Operates as an **Action-First Operational Hub** with dashboard-style nested stack routing.
